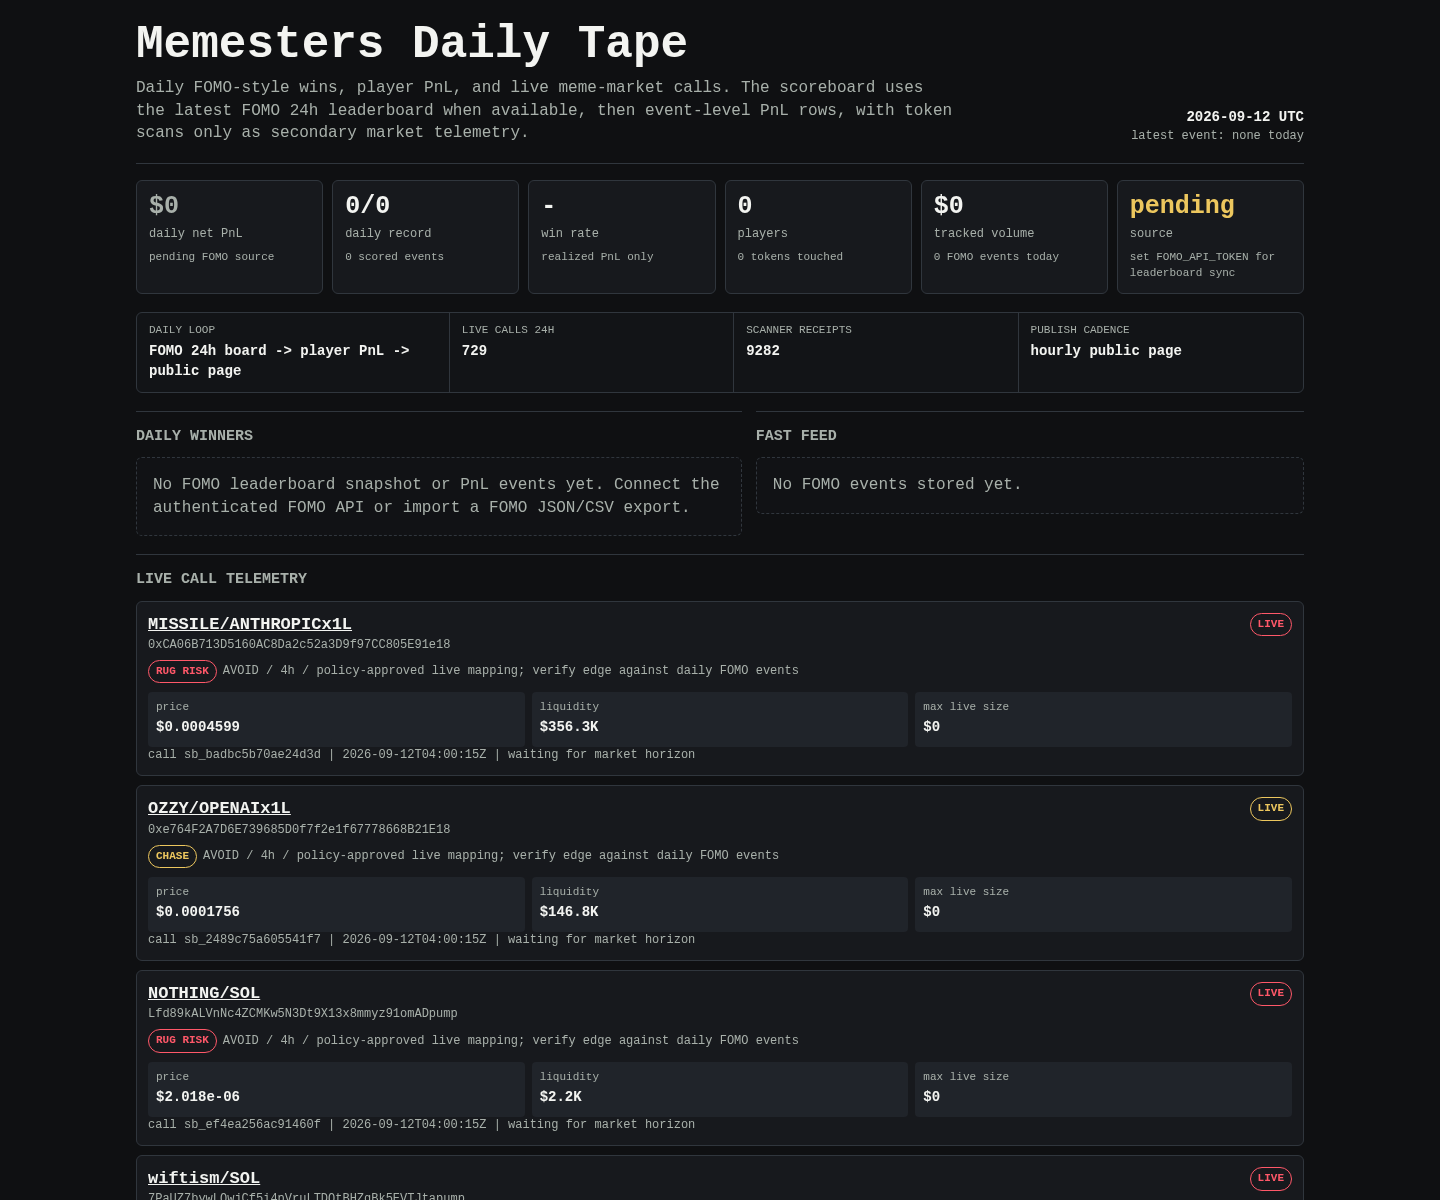
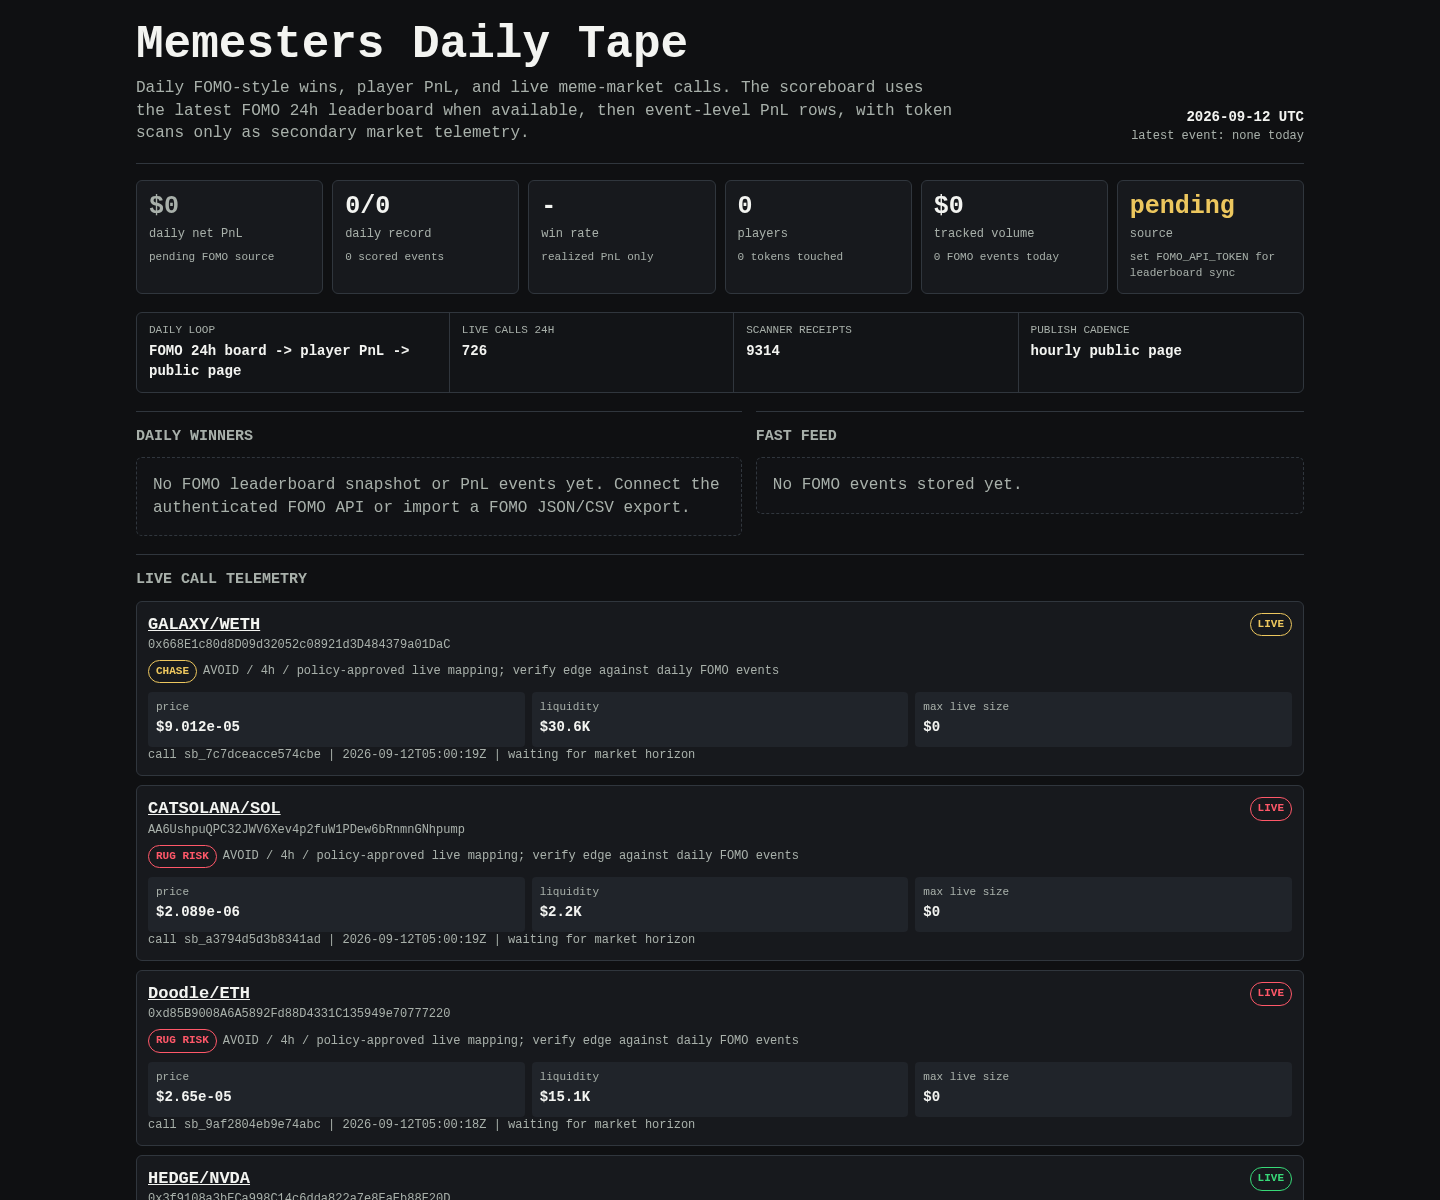
Update Memesters scoreboard

diff --git a/memesters/index.html b/memesters/index.html
@@ -149,8 +149,8 @@
 
     <div class="rail" aria-label="live operating loop">
       <div><span>daily loop</span><b>FOMO 24h board -> player PnL -> public page</b></div>
-      <div><span>live calls 24h</span><b>729</b></div>
-      <div><span>scanner receipts</span><b>9282</b></div>
+      <div><span>live calls 24h</span><b>726</b></div>
+      <div><span>scanner receipts</span><b>9314</b></div>
       <div><span>publish cadence</span><b>hourly public page</b></div>
     </div>
 
@@ -171,29 +171,8 @@
     <article class="receipt">
       <div class="receipt-head">
         <div>
-          <div class="pair"><a href="https://dexscreener.com/robinhood/0x3b48256216db57a3411e12238b4ecd3e218e3b6c3cd0cdf914875eefce09a3b1">MISSILE/ANTHROPICx1L</a></div>
-          <div class="addr">0xCA06B713D5160AC8Da2c52a3D9f97CC805E91e18</div>
-          <div class="addr policy-line">
-            <span class="badge rug-risk">RUG RISK</span>
-            <span>AVOID / 4h / policy-approved live mapping; verify edge against daily FOMO events</span>
-          </div>
-        </div>
-        <span class="badge rug-risk">LIVE</span>
-      </div>
-      <div class="receipt-grid">
-        <div class="kv"><span>price</span><b>$0.0004599</b></div>
-        <div class="kv"><span>liquidity</span><b>$356.3K</b></div>
-        <div class="kv"><span>max live size</span><b>$0</b></div>
-      </div>
-      <div class="outcomes">call sb_badbc5b70ae24d3d | 2026-09-12T04:00:15Z | waiting for market horizon</div>
-    </article>
-    
-
-    <article class="receipt">
-      <div class="receipt-head">
-        <div>
-          <div class="pair"><a href="https://dexscreener.com/robinhood/0xbf2be8eb9bcb5bd197a319d94f4986d67b71667af4185cc658daae383f8642a2">OZZY/OPENAIx1L</a></div>
-          <div class="addr">0xe764F2A7D6E739685D0f7f2e1f67778668B21E18</div>
+          <div class="pair"><a href="https://dexscreener.com/robinhood/0x3c33aa6ebeceb2788b074ed239663c8700ae45fd">GALAXY/WETH</a></div>
+          <div class="addr">0x668E1c80d8D09d32052c08921d3D484379a01DaC</div>
           <div class="addr policy-line">
             <span class="badge chase">CHASE</span>
             <span>AVOID / 4h / policy-approved live mapping; verify edge against daily FOMO events</span>
@@ -202,19 +181,19 @@
         <span class="badge chase">LIVE</span>
       </div>
       <div class="receipt-grid">
-        <div class="kv"><span>price</span><b>$0.0001756</b></div>
-        <div class="kv"><span>liquidity</span><b>$146.8K</b></div>
+        <div class="kv"><span>price</span><b>$9.012e-05</b></div>
+        <div class="kv"><span>liquidity</span><b>$30.6K</b></div>
         <div class="kv"><span>max live size</span><b>$0</b></div>
       </div>
-      <div class="outcomes">call sb_2489c75a605541f7 | 2026-09-12T04:00:15Z | waiting for market horizon</div>
+      <div class="outcomes">call sb_7c7dceacce574cbe | 2026-09-12T05:00:19Z | waiting for market horizon</div>
     </article>
     
 
     <article class="receipt">
       <div class="receipt-head">
         <div>
-          <div class="pair"><a href="https://dexscreener.com/solana/68upzij3s99igjuytsjvdtuni8edvk6zkurmurrkpvjw">NOTHING/SOL</a></div>
-          <div class="addr">Lfd89kALVnNc4ZCMKw5N3Dt9X13x8mmyz91omADpump</div>
+          <div class="pair"><a href="https://dexscreener.com/solana/grrhpklw7cam1upeefrlle5w222aqcdzxaroeenwkuxz">CATSOLANA/SOL</a></div>
+          <div class="addr">AA6UshpuQPC32JWV6Xev4p2fuW1PDew6bRnmnGNhpump</div>
           <div class="addr policy-line">
             <span class="badge rug-risk">RUG RISK</span>
             <span>AVOID / 4h / policy-approved live mapping; verify edge against daily FOMO events</span>
@@ -223,19 +202,19 @@
         <span class="badge rug-risk">LIVE</span>
       </div>
       <div class="receipt-grid">
-        <div class="kv"><span>price</span><b>$2.018e-06</b></div>
+        <div class="kv"><span>price</span><b>$2.089e-06</b></div>
         <div class="kv"><span>liquidity</span><b>$2.2K</b></div>
         <div class="kv"><span>max live size</span><b>$0</b></div>
       </div>
-      <div class="outcomes">call sb_ef4ea256ac91460f | 2026-09-12T04:00:15Z | waiting for market horizon</div>
+      <div class="outcomes">call sb_a3794d5d3b8341ad | 2026-09-12T05:00:19Z | waiting for market horizon</div>
     </article>
     
 
     <article class="receipt">
       <div class="receipt-head">
         <div>
-          <div class="pair"><a href="https://dexscreener.com/solana/6pa3fx1zwmctpwud9dhovak6vwtgp4d6namg8uytqyva">wiftism/SOL</a></div>
-          <div class="addr">7PaUZ7bywLQwjCf5i4pVruLTDQtBHZqBk5EVTJtapump</div>
+          <div class="pair"><a href="https://dexscreener.com/robinhood/0x59b134b5ede55a7b9bc48cff802d3f14b2c580749ec8bf157c5f994a3195267c">Doodle/ETH</a></div>
+          <div class="addr">0xd85B9008A6A5892Fd88D4331C135949e70777220</div>
           <div class="addr policy-line">
             <span class="badge rug-risk">RUG RISK</span>
             <span>AVOID / 4h / policy-approved live mapping; verify edge against daily FOMO events</span>
@@ -244,19 +223,19 @@
         <span class="badge rug-risk">LIVE</span>
       </div>
       <div class="receipt-grid">
-        <div class="kv"><span>price</span><b>$3.175e-06</b></div>
-        <div class="kv"><span>liquidity</span><b>$3.0K</b></div>
+        <div class="kv"><span>price</span><b>$2.65e-05</b></div>
+        <div class="kv"><span>liquidity</span><b>$15.1K</b></div>
         <div class="kv"><span>max live size</span><b>$0</b></div>
       </div>
-      <div class="outcomes">call sb_24921ed31a574eec | 2026-09-12T04:00:15Z | waiting for market horizon</div>
+      <div class="outcomes">call sb_9af2804eb9e74abc | 2026-09-12T05:00:18Z | waiting for market horizon</div>
     </article>
     
 
     <article class="receipt">
       <div class="receipt-head">
         <div>
-          <div class="pair"><a href="https://dexscreener.com/robinhood/0xf0992d6fb5402eee315b60e370507cd9463d7c33248cb60745c8e94e97be493b">CLAUDEGATOR/ETH</a></div>
-          <div class="addr">0xE99Bd31C1761BAE7FF366c510b095Dc32fd562c1</div>
+          <div class="pair"><a href="https://dexscreener.com/robinhood/0xc5c73a17f81e15c4d9b076601476bbf751e0ab51a6eb7262da1b58e2913723be">HEDGE/NVDA</a></div>
+          <div class="addr">0x3f9108a3bECa998C14c6dda822a7e8EaEb88E20D</div>
           <div class="addr policy-line">
             <span class="badge early">EARLY</span>
             <span>BUY / 1h / policy-approved live mapping; verify edge against daily FOMO events</span>
@@ -265,19 +244,40 @@
         <span class="badge early">LIVE</span>
       </div>
       <div class="receipt-grid">
-        <div class="kv"><span>price</span><b>$7.374e-05</b></div>
-        <div class="kv"><span>liquidity</span><b>$25.2K</b></div>
-        <div class="kv"><span>max live size</span><b>$303</b></div>
+        <div class="kv"><span>price</span><b>$5.84e-05</b></div>
+        <div class="kv"><span>liquidity</span><b>$20.9K</b></div>
+        <div class="kv"><span>max live size</span><b>$250</b></div>
       </div>
-      <div class="outcomes">call sb_247fb839f00d4977 | 2026-09-12T04:00:14Z | waiting for market horizon</div>
+      <div class="outcomes">call sb_29f66177884b41e3 | 2026-09-12T05:00:18Z | waiting for market horizon</div>
     </article>
     
 
     <article class="receipt">
       <div class="receipt-head">
         <div>
-          <div class="pair"><a href="https://dexscreener.com/robinhood/0x0691398febc3a9480d7c889805b2cba179f9743d"> BRIAN/WETH</a></div>
-          <div class="addr">0x71866aC188E79AF8899421622Dc943aF63F283A8</div>
+          <div class="pair"><a href="https://dexscreener.com/robinhood/0x977e050691622195946ce9b0dbe6d045edcceb0a858de2d43ece3b0db78544f5">$SLVR/SLV</a></div>
+          <div class="addr">0x5D375C4c3809E8BAda0b8D818B359231384016dF</div>
+          <div class="addr policy-line">
+            <span class="badge early">EARLY</span>
+            <span>BUY / 1h / policy-approved live mapping; verify edge against daily FOMO events</span>
+          </div>
+        </div>
+        <span class="badge early">LIVE</span>
+      </div>
+      <div class="receipt-grid">
+        <div class="kv"><span>price</span><b>$8.755e-05</b></div>
+        <div class="kv"><span>liquidity</span><b>$27.0K</b></div>
+        <div class="kv"><span>max live size</span><b>$243</b></div>
+      </div>
+      <div class="outcomes">call sb_b9e75794ee5741c3 | 2026-09-12T05:00:18Z | waiting for market horizon</div>
+    </article>
+    
+
+    <article class="receipt">
+      <div class="receipt-head">
+        <div>
+          <div class="pair"><a href="https://dexscreener.com/solana/gvmcschgndnixjswko3svjvuveevyad4rbyjmabjcpdl">ZPOOP/SOL</a></div>
+          <div class="addr">ECRofhnyq7VzCqhLFWVx1zHXxVadRBYtT8wWCwVGpump</div>
           <div class="addr policy-line">
             <span class="badge rug-risk">RUG RISK</span>
             <span>AVOID / 4h / policy-approved live mapping; verify edge against daily FOMO events</span>
@@ -286,82 +286,19 @@
         <span class="badge rug-risk">LIVE</span>
       </div>
       <div class="receipt-grid">
-        <div class="kv"><span>price</span><b>$0.0001373</b></div>
-        <div class="kv"><span>liquidity</span><b>$67.5K</b></div>
+        <div class="kv"><span>price</span><b>$2.087e-06</b></div>
+        <div class="kv"><span>liquidity</span><b>$2.2K</b></div>
         <div class="kv"><span>max live size</span><b>$0</b></div>
       </div>
-      <div class="outcomes">call sb_699cabce54914f79 | 2026-09-12T03:45:16Z | waiting for market horizon</div>
+      <div class="outcomes">call sb_053ccd300b184410 | 2026-09-12T05:00:18Z | waiting for market horizon</div>
     </article>
     
 
     <article class="receipt">
       <div class="receipt-head">
         <div>
-          <div class="pair"><a href="https://dexscreener.com/robinhood/0x0b2fa4b0d5512bd47fe65dc3b57e4bde6f686824">LONG/WETH</a></div>
-          <div class="addr">0x34c5D003D4Bc9A9389503A9Aa23c8b0B3F7c7968</div>
-          <div class="addr policy-line">
-            <span class="badge chase">CHASE</span>
-            <span>AVOID / 4h / policy-approved live mapping; verify edge against daily FOMO events</span>
-          </div>
-        </div>
-        <span class="badge chase">LIVE</span>
-      </div>
-      <div class="receipt-grid">
-        <div class="kv"><span>price</span><b>$0.0002176</b></div>
-        <div class="kv"><span>liquidity</span><b>$83.5K</b></div>
-        <div class="kv"><span>max live size</span><b>$0</b></div>
-      </div>
-      <div class="outcomes">call sb_e1723bbd9a4d4c52 | 2026-09-12T03:45:15Z | waiting for market horizon</div>
-    </article>
-    
-
-    <article class="receipt">
-      <div class="receipt-head">
-        <div>
-          <div class="pair"><a href="https://dexscreener.com/robinhood/0x29abb6131c0ca1253ab9e9e766e91bc201e2f90330d937e5aafd9836a9345f4d">MH/ANTHROPICx1L</a></div>
-          <div class="addr">0xd62eB2813bB442814FA35df447b24bE864721E18</div>
-          <div class="addr policy-line">
-            <span class="badge chase">CHASE</span>
-            <span>AVOID / 4h / policy-approved live mapping; verify edge against daily FOMO events</span>
-          </div>
-        </div>
-        <span class="badge chase">LIVE</span>
-      </div>
-      <div class="receipt-grid">
-        <div class="kv"><span>price</span><b>$0.0003302</b></div>
-        <div class="kv"><span>liquidity</span><b>$267.0K</b></div>
-        <div class="kv"><span>max live size</span><b>$0</b></div>
-      </div>
-      <div class="outcomes">call sb_2e9a0eb856a54253 | 2026-09-12T03:45:15Z | waiting for market horizon</div>
-    </article>
-    
-
-    <article class="receipt">
-      <div class="receipt-head">
-        <div>
-          <div class="pair"><a href="https://dexscreener.com/robinhood/0xb8e15cbc7dfb46ab598ff3f838d47cf702b562f2708e214a22f0f6fea980186f">NVIDIAPE/NVDAx3L</a></div>
-          <div class="addr">0x997DF04BE582d1278616B2F677f0422bF04a1e18</div>
-          <div class="addr policy-line">
-            <span class="badge chase">CHASE</span>
-            <span>AVOID / 4h / policy-approved live mapping; verify edge against daily FOMO events</span>
-          </div>
-        </div>
-        <span class="badge chase">LIVE</span>
-      </div>
-      <div class="receipt-grid">
-        <div class="kv"><span>price</span><b>$0.0001097</b></div>
-        <div class="kv"><span>liquidity</span><b>$96.1K</b></div>
-        <div class="kv"><span>max live size</span><b>$0</b></div>
-      </div>
-      <div class="outcomes">call sb_620b9fb5e58d4cb9 | 2026-09-12T03:45:15Z | waiting for market horizon</div>
-    </article>
-    
-
-    <article class="receipt">
-      <div class="receipt-head">
-        <div>
-          <div class="pair"><a href="https://dexscreener.com/solana/68upzij3s99igjuytsjvdtuni8edvk6zkurmurrkpvjw">NOTHING/SOL</a></div>
-          <div class="addr">Lfd89kALVnNc4ZCMKw5N3Dt9X13x8mmyz91omADpump</div>
+          <div class="pair"><a href="https://dexscreener.com/robinhood/0xadf117518921faa58a3558244cc9bfc5549e027dc1432fd30b2e4d5719f8522a">MONK/USDG</a></div>
+          <div class="addr">0x6fd5ef3d2331B4F1e3cD0b4A61ef059e928dBFd9</div>
           <div class="addr policy-line">
             <span class="badge rug-risk">RUG RISK</span>
             <span>AVOID / 4h / policy-approved live mapping; verify edge against daily FOMO events</span>
@@ -370,11 +307,74 @@
         <span class="badge rug-risk">LIVE</span>
       </div>
       <div class="receipt-grid">
-        <div class="kv"><span>price</span><b>$0.0001228</b></div>
-        <div class="kv"><span>liquidity</span><b>$29.0K</b></div>
+        <div class="kv"><span>price</span><b>$3.81e-06</b></div>
+        <div class="kv"><span>liquidity</span><b>$5.0K</b></div>
         <div class="kv"><span>max live size</span><b>$0</b></div>
       </div>
-      <div class="outcomes">call sb_284144c5999144f5 | 2026-09-12T03:45:15Z | waiting for market horizon</div>
+      <div class="outcomes">call sb_aa22ca75f52249fb | 2026-09-12T05:00:18Z | waiting for market horizon</div>
+    </article>
+    
+
+    <article class="receipt">
+      <div class="receipt-head">
+        <div>
+          <div class="pair"><a href="https://dexscreener.com/robinhood/0x3d1f3a9a23d9dfbd54cf26f2c37c8186011c1f7b">LPADOLLAR/WETH</a></div>
+          <div class="addr">0x9095D8905DEA4C61527fC415138801C5029C573c</div>
+          <div class="addr policy-line">
+            <span class="badge early">EARLY</span>
+            <span>BUY / 1h / policy-approved live mapping; verify edge against daily FOMO events</span>
+          </div>
+        </div>
+        <span class="badge early">LIVE</span>
+      </div>
+      <div class="receipt-grid">
+        <div class="kv"><span>price</span><b>$3.649e-06</b></div>
+        <div class="kv"><span>liquidity</span><b>$3.6K</b></div>
+        <div class="kv"><span>max live size</span><b>$25</b></div>
+      </div>
+      <div class="outcomes">call sb_7d9ba646d87f46a3 | 2026-09-12T05:00:18Z | waiting for market horizon</div>
+    </article>
+    
+
+    <article class="receipt">
+      <div class="receipt-head">
+        <div>
+          <div class="pair"><a href="https://dexscreener.com/robinhood/0xa7b4b703a57de1f607c3439050a67c9f68cc2bcc8f75441622b87d404c0a781a">MIMI/ETH</a></div>
+          <div class="addr">0x51FD93e4eaf8E1A21A798A2CcC0B507fD2665428</div>
+          <div class="addr policy-line">
+            <span class="badge chase">CHASE</span>
+            <span>AVOID / 4h / policy-approved live mapping; verify edge against daily FOMO events</span>
+          </div>
+        </div>
+        <span class="badge chase">LIVE</span>
+      </div>
+      <div class="receipt-grid">
+        <div class="kv"><span>price</span><b>$0.0001116</b></div>
+        <div class="kv"><span>liquidity</span><b>$31.0K</b></div>
+        <div class="kv"><span>max live size</span><b>$0</b></div>
+      </div>
+      <div class="outcomes">call sb_2dc736a3a9834c45 | 2026-09-12T04:45:15Z | waiting for market horizon</div>
+    </article>
+    
+
+    <article class="receipt">
+      <div class="receipt-head">
+        <div>
+          <div class="pair"><a href="https://dexscreener.com/robinhood/0xa0d7dec80814396652f7696c0e84625b1abc033242e0c77d0e3ddc4bd9bb8789">PENDLE/WETH</a></div>
+          <div class="addr">0x2F91714060F1d466d35580719587B61c7574E2d6</div>
+          <div class="addr policy-line">
+            <span class="badge chase">CHASE</span>
+            <span>AVOID / 4h / policy-approved live mapping; verify edge against daily FOMO events</span>
+          </div>
+        </div>
+        <span class="badge chase">LIVE</span>
+      </div>
+      <div class="receipt-grid">
+        <div class="kv"><span>price</span><b>$1.776e-06</b></div>
+        <div class="kv"><span>liquidity</span><b>$116.6K</b></div>
+        <div class="kv"><span>max live size</span><b>$0</b></div>
+      </div>
+      <div class="outcomes">call sb_b4d1d9eadd2142a3 | 2026-09-12T04:45:15Z | waiting for market horizon</div>
     </article>
     
     </section>
